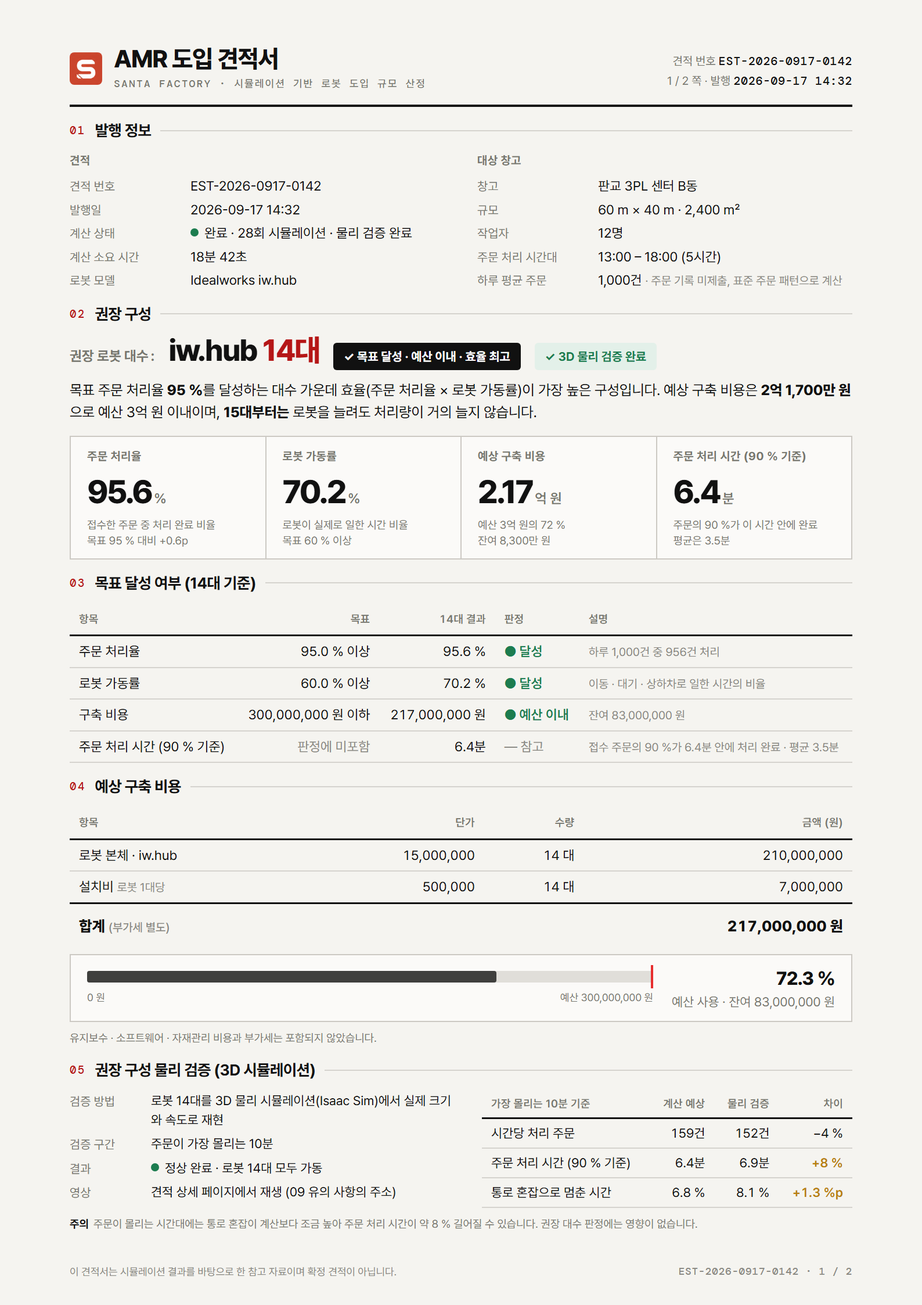
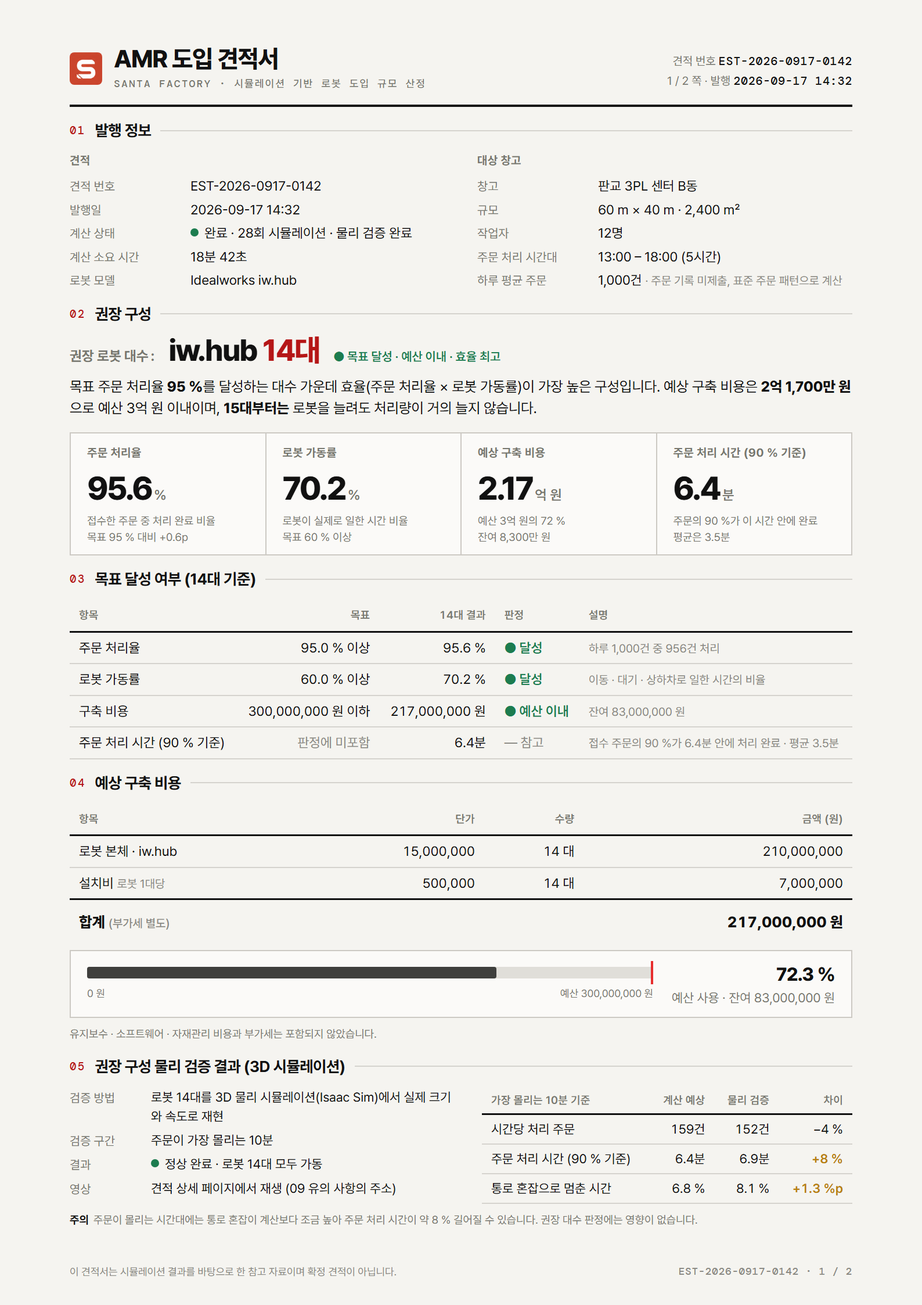
✨ feat(web): 견적 화면에 견적서 PDF 저장·메일로 받기 버튼 연결, 시안 1면 갱신과 PDF 개발 기록 문서 (S15P21A106-236)

diff --git a/4_Web/SantaFactoryFE/src/components/QuoteStep.jsx b/4_Web/SantaFactoryFE/src/components/QuoteStep.jsx
@@ -1,3 +1,5 @@
+import { useState } from 'react'
+import { downloadQuotePdf, emailQuote } from '../api/estimates.js'
 import { formatDateTime, formatEok, formatPercent, formatWon } from '../utils/format.js'
 
 const MONO = 'DM Mono, Pretendard Variable, Pretendard, monospace'
@@ -233,6 +235,53 @@ function Placeholder({ estimateId, estimate }) {
   )
 }
 
+/**
+ * 견적서 PDF 저장·메일 전송 (S15P21A106-236). 둘 다 백엔드가 만든 같은 문서다 — 저장은 파일로 받고,
+ * 메일은 로그인 계정 이메일로 간다. 계산이 끝나기 전엔 서버가 409 를 주므로 버튼을 막아 둔다.
+ */
+function QuoteActions({ estimateId, finished }) {
+  const [busy, setBusy] = useState(null) // null | 'pdf' | 'mail'
+  const [message, setMessage] = useState(null)
+
+  const run = async (kind, action, doneText) => {
+    setBusy(kind)
+    setMessage(null)
+    try {
+      await action()
+      setMessage({ ok: true, text: doneText })
+    } catch (e) {
+      setMessage({ ok: false, text: e.message ?? '요청에 실패했습니다.' })
+    } finally {
+      setBusy(null)
+    }
+  }
+
+  return (
+    <div className="printrow">
+      <button
+        type="button"
+        className="button"
+        disabled={!finished || busy !== null}
+        onClick={() => run('pdf', () => downloadQuotePdf(estimateId), '견적서를 저장했습니다.')}
+      >
+        {busy === 'pdf' ? '견적서 만드는 중…' : '견적서 PDF 저장 ↗'}
+      </button>
+      <button
+        type="button"
+        className="ghost"
+        disabled={!finished || busy !== null}
+        onClick={() => run('mail', () => emailQuote(estimateId), '가입한 이메일로 견적서를 보냈습니다. 잠시 후 메일함을 확인하세요.')}
+      >
+        {busy === 'mail' ? '보내는 중…' : '메일로 받기'}
+      </button>
+      <a className="ghost" href="#s1">조건 바꿔 다시 요청</a>
+      {message && (
+        <span className="mono" style={{ fontSize: 13, color: message.ok ? '#1c7c4f' : '#b51616' }}>{message.text}</span>
+      )}
+    </div>
+  )
+}
+
 export default function QuoteStep({ estimateId, estimate, verdict }) {
   const ready = Boolean(estimate && verdict)
   const runs = estimate?.runs ?? []
@@ -394,10 +443,7 @@ export default function QuoteStep({ estimateId, estimate, verdict }) {
             </div>
           </div>
 
-          <div className="printrow">
-            <button type="button" className="button">견적서 PDF 저장 ↗</button>
-            <a className="ghost" href="#s1">조건 바꿔 다시 요청</a>
-          </div>
+          <QuoteActions estimateId={estimateId} finished={verdict.status === 'DONE' || verdict.status === 'PARTIAL'} />
         </>
       )}
     </section>

diff --git a/4_Web/SantaFactoryFE/src/api/client.js b/4_Web/SantaFactoryFE/src/api/client.js
@@ -88,6 +88,45 @@ function refreshSession() {
 export const api = {
   get: (path) => request(path),
   post: (path, body) => request(path, { method: 'POST', body }),
+  download: (path) => download(path),
+}
+
+/**
+ * 파일 응답(PDF 등)을 받아 저장까지 한다. 실패 응답은 JSON 이라 위 request 와 같은 규칙으로 에러를 만든다.
+ * 401 은 한 번 갱신 뒤 재시도 — 견적서 버튼은 보통 화면을 오래 열어 둔 뒤 누르기 때문이다.
+ */
+async function download(path, allowRefresh = true) {
+  const response = await fetch(`${BASE_URL}${path}`, { credentials: 'same-origin' })
+
+  if (response.status === 401 && allowRefresh && (await refreshSession())) {
+    return download(path, false)
+  }
+  if (!response.ok) {
+    let payload = null
+    try {
+      payload = await response.json()
+    } catch {
+      payload = null
+    }
+    if (response.status === 401) onSessionLost()
+    throw new ApiError(payload?.code ?? `HTTP${response.status}`, payload?.message ?? response.statusText, response.status, payload?.result)
+  }
+
+  const blob = await response.blob()
+  const disposition = response.headers.get('Content-Disposition') ?? ''
+  const encoded = /filename\*=UTF-8''([^;]+)/i.exec(disposition)?.[1]
+  const plain = /filename="?([^";]+)"?/i.exec(disposition)?.[1]
+  const filename = encoded ? decodeURIComponent(encoded) : (plain ?? 'download')
+
+  const url = URL.createObjectURL(blob)
+  const anchor = document.createElement('a')
+  anchor.href = url
+  anchor.download = filename
+  document.body.appendChild(anchor)
+  anchor.click()
+  anchor.remove()
+  URL.revokeObjectURL(url)
+  return filename
 }
 
 export function streamUrl(path) {

diff --git a/4_Web/SantaFactoryFE/src/api/estimates.js b/4_Web/SantaFactoryFE/src/api/estimates.js
@@ -39,6 +39,16 @@ export function requestVerify(estimateId) {
   return api.post(`/estimates/${estimateId}/verify`)
 }
 
+/** 견적서 PDF 를 받아 저장한다. 계산이 끝난 견적만 가능(409), 변환기가 없으면 503. */
+export function downloadQuotePdf(estimateId) {
+  return api.download(`/estimates/${estimateId}/quote.pdf`)
+}
+
+/** 로그인 계정 이메일로 견적서 PDF 를 보낸다. 202 면 뒤에서 발송 중. */
+export function emailQuote(estimateId) {
+  return api.post(`/estimates/${estimateId}/quote/email`)
+}
+
 export function openEstimateStream(estimateId, { onSnapshot, onRun, onDone, onError }) {
   const source = new EventSource(streamUrl(`/estimates/${estimateId}`))
   const parse = (event) => JSON.parse(event.data)

diff --git a/5_Docs/Web/견적서_PDF_개발기록.md b/5_Docs/Web/견적서_PDF_개발기록.md
@@ -1,0 +1,120 @@
+# 견적서 PDF 개발 기록 (S15P21A106-236)
+
+2026-09-17. 브랜치 `feature/S15P21A106-236-견적서-pdf-산출`. 문서 구성·문구 원칙은 [견적서_구성안.md](견적서_구성안.md), 시안은 같은 폴더의 `견적서_예시_1면.png`·`2면.png`.
+
+## 1. 무엇을 만들었나
+
+견적 결과를 **A4 2장 PDF** 로 만들어 (1) 브라우저에서 내려받고 (2) 로그인 계정 이메일로 첨부 전송하는 기능.
+그 전 단계로, 견적서에 필요한데 DB 에 없던 값 두 가지를 먼저 저장하게 했다.
+
+| 단계 | 내용 | 커밋 |
+|---|---|---|
+| 1차 | run 별 시뮬 지표 7개 저장(`simscenarios`), 물리 검증 결과 저장(`estimates.verify_*`) + 권장 run 대비 비교 판정. 상세 응답에 `runs[].kpi`·`verification` 블록 | `8c5f10f` |
+| 2차 | PDF 변환 컨테이너, 문서 모델·템플릿, 다운로드·메일 API, 프런트 버튼 | (미커밋) |
+
+## 2. 방식 결정 — 왜 별도 변환 컨테이너인가
+
+| 후보 | 기각/채택 이유 |
+|---|---|
+| 브라우저 인쇄(`window.print`) | 메일 첨부 불가. 서버에 파일이 없다 |
+| 자바 HTML→PDF 라이브러리(openhtmltopdf) | CSS 2.1 수준이라 시안의 grid·flex 배치를 표로 다시 짜야 하고 SVG 는 플러그인. 모양 편차 |
+| 백엔드 JVM 안 헤드리스 크롬(Playwright) | EC2 t3.medium(4 GB)에서 백엔드 프로세스가 300 MB 씩 부풀고, 크롬이 죽으면 백엔드가 흔들림 |
+| **Gotenberg 컨테이너 (채택)** | 크로미움 내장 HTTP 변환기. 시안 HTML 그대로, 백엔드는 HTML 만 만들고 HTTP 한 번. 죽어도 견적서 기능만 멈춤. 검증 영상을 MinIO 로 분리한 것과 같은 결 |
+
+정책 결정(사용자, 2026-09-17): 메일 수신자 = 로그인 계정 이메일 고정 · 권한 = 견적 상세 조회와 동일(`OwnershipGuard.checkEstimate`, 남의 것은 404) · 파일명 `견적서_EST-yyyyMMdd-NNNN.pdf` · 비교 기준값 처리 시간 +10 % / 혼잡 +1 %p(임시).
+
+## 3. 구성 요소
+
+```
+브라우저 ─(GET quote.pdf / POST quote/email)─▶ backend(Spring)
+                                                  │ ① estimateService.quoteSource()  ── DB (estimates·simscenarios·warehouses)
+                                                  │ ② QuoteDocumentFactory.build()    ── 상세 응답+창고 → QuoteDocument
+                                                  │ ③ Thymeleaf templates/quote/quote.html → HTML 문자열
+                                                  │ ④ GotenbergClient.htmlToPdf()  ─(multipart POST)─▶ pdf 컨테이너(Gotenberg+크로미움+Pretendard)
+                                                  │ ⑤ 다운로드: PDF 바이트 응답 / 메일: EmailSender.sendWithAttachment (@Async)
+```
+
+| 파일 | 역할 |
+|---|---|
+| `4_Web/pdf/Dockerfile`, `4_Web/pdf/fonts/PretendardVariable.ttf` | `gotenberg/gotenberg:8` + 한글 폰트(가변 TTF 6.7 MB, SIL OFL). `fc-cache` 로 등록 |
+| `4_Web/docker-compose.yml` `pdf` 서비스 | `mem_limit: 512m`, `--api-timeout=60s --chromium-max-queue-size=2 --chromium-disable-javascript=true`, healthcheck. 외부 포트 없음. backend 가 `depends_on` |
+| `Jenkinsfile` | `$COMPOSE build backend pdf`, `4_Web/pdf/` 변경도 BE 빌드 트리거 |
+| `service/estimate/quote/QuotePdfProperties` | `pdf.base-url`(비면 503), `pdf.timeout`(30s), `pdf.site-url`(문서 안 링크) |
+| `service/estimate/quote/QuoteSource` | 상세 응답 + `WarehouseResponse`. `EstimateService.quoteSource()` 가 한 트랜잭션에서 만든다 |
+| `service/estimate/quote/QuoteDocument` | 템플릿 값 레코드. 숫자는 전부 표기용 문자열 |
+| `service/estimate/quote/QuoteDocumentFactory` | 상세 응답+창고 → 문서. 12행 선택, 비교표·주의 문장, 곡선 SVG 좌표, 사유 문구 |
+| `service/estimate/quote/QuoteFormat` | 원("2억 1,700만 원")·억("2.17")·분·초·%·문서 번호. 웹 `utils/format.js` 와 같은 규칙 |
+| `service/estimate/quote/GotenbergClient` | `RestClient` multipart(`files=index.html`, A4 8.27×11.69 in, 여백 0, 배경 인쇄). 동시 1건 세마포어, 실패·타임아웃은 `PDF503` |
+| `service/estimate/quote/QuotePdfService` | `checkRenderable`(변환기 유무·소유권·상태) → `render`(문서 → HTML → PDF) |
+| `service/estimate/quote/QuoteMailService` | `@Async sendToRequester`: 회원 이메일 조회 → render → 첨부 발송. 예외는 로그 |
+| `service/auth/EmailSender.sendWithAttachment` | `MimeMessageHelper` 첨부. `mail.enabled=false` 면 로그만 |
+| `resources/templates/quote/quote.html` | Thymeleaf. 스크립트 없음(서버가 전부 채움), 로고는 base64, 폰트는 컨테이너 시스템 폰트 |
+| `resources/quote/santafactory-logo.png` | 로고 원본(프런트 `public/` 복사) |
+| `controller/EstimateController` | `GET /api/estimates/{id}/quote.pdf`, `POST /api/estimates/{id}/quote/email` |
+| `global/exception/ErrorCode` | `ESTIMATE_NOT_FINISHED`(409 `EST409_2`), `QUOTE_PDF_UNAVAILABLE`(503 `PDF503`) |
+| FE `api/client.js` `api.download` | fetch → blob → `<a download>`. 401 이면 갱신 1회 뒤 재시도. `Content-Disposition` 의 UTF-8 파일명 해석 |
+| FE `api/estimates.js` | `downloadQuotePdf`, `emailQuote` |
+| FE `components/QuoteStep.jsx` `QuoteActions` | 버튼 2개. 견적 상태 DONE·PARTIAL 아니면 비활성, 진행 중 문구, 결과 메시지 |
+
+## 4. 동작 흐름
+
+### 다운로드
+1. 사용자가 견적 화면 "견적서 PDF 저장" 클릭 → `api.download('/estimates/{id}/quote.pdf')` (HttpOnly 쿠키 동봉).
+2. `EstimateController.quotePdf` → `QuotePdfService.render(id, me)`.
+3. `checkRenderable`: `pdf.base-url` 비면 503 → `estimateService.quoteSource(id, me)` (`@Transactional(readOnly)`: 견적 조회 → `OwnershipGuard.checkEstimate` → `toDetail`(상세 응답, 검증 비교 포함) + `WarehouseResponse.from(warehouse)`) → 상태가 DONE·PARTIAL 아니면 409.
+4. **트랜잭션 밖에서** `QuoteDocumentFactory.build(source)` → `templateEngine.process("quote/quote")` → `GotenbergClient.htmlToPdf(html)`.
+5. 응답 `application/pdf`, `Content-Disposition: attachment; filename*=UTF-8''견적서_EST-….pdf`. 브라우저가 저장.
+
+### 메일
+1. "메일로 받기" 클릭 → `POST /estimates/{id}/quote/email`.
+2. 컨트롤러가 **동기로** `checkRenderable` 만 하고(404/409/503 즉시) `QuoteMailService.sendToRequester(source, me)` 호출 → **202**.
+3. `@Async` 스레드: `memberRepository.findById(me.id())` 로 이메일 → `pdfService.render(source)` → `EmailSender.sendWithAttachment(email, 제목, 본문, 파일명, bytes, application/pdf)`.
+4. 실패는 로그. 화면은 "가입한 이메일로 견적서를 보냈습니다" 를 표시한다(발송 성패는 알 수 없음 — 한계 참고).
+
+### 문서 값이 나오는 곳
+| 블록 | 값의 출처 |
+|---|---|
+| 01 발행 정보 | `estimates`(생성 시각·상태·소요·모델) + `warehouses`(이름·크기·작업자·주문 시간대·하루 주문) |
+| 02 권장 구성 | `estimates.recommended_count`·`knee_count` + 권장 run 의 `throughput`·`utilization`·`total_cost`·`lead_time_p90`·`kpi.lead_time_mean_s` |
+| 03 목표 달성 여부 | 견적에 복사된 목표 3개 vs 권장 run. 리드타임 상한은 `estimate.lead-time-p90-limit`(미설정이면 "판정에 미포함") |
+| 04 예상 구축 비용 | `EstimateProperties.amrPrice`·`installPerUnit` × 대수, 합계는 run 의 `total_cost`(차이가 있으면 "기타 설비" 행) |
+| 05 물리 검증 결과 | 상세 응답 `verification`(`estimates.verify_*` + `VerifyComparator` 판정). 검증 전이면 안내 문장 |
+| 06 대수별 비교 | DONE run 전체에서 최대 12행(`pickRows`: 양끝·권장·정체·예산 경계 앞뒤 고정, 나머지 등간격) |
+| 07 그래프 | 효율 점수(처리율×가동률/100)·구축비 선, 예산 점선, 권장 표식, 정체 점선. 비용 축은 `niceCostMax` |
+| 08 운영 예상 | 권장 run 의 `kpi`(평균 처리 시간·배정 대기·혼잡·이동 거리) |
+| 09 유의 사항 | 고정 문구 + `pdf.site-url` |
+
+권장이 없는 견적(사유 코드만)은 02 에 사유 문장을 넣고 03~05·08 을 비운다. 부록 블록 번호는 `base`(권장 있으면 5, 없으면 2)로 계산해 이어진다.
+
+## 5. 설정·환경
+
+| 키 | 기본 | 비고 |
+|---|---|---|
+| `pdf.base-url` ← `PDF_BASE_URL` | 빈 값 | compose 는 `http://pdf:3000`. 비면 견적서 API 가 503 |
+| `pdf.timeout` | 30s | 변환기 응답 대기이자 세마포어 대기 상한 |
+| `pdf.site-url` ← `APP_PUBLIC_URL` | `http://localhost:5173` | compose 기본 `https://j15a106.p.ssafy.io` |
+| `estimate.verify-compare.*` | 0.10 / 0.01 | 05 비교 판정 기준. 조회 시 계산이라 과거 견적에도 즉시 적용 |
+| `mail.enabled` 등 | 기존 | 꺼져 있으면 첨부 메일도 로그만 |
+
+로컬에서 보기: `docker compose -f 4_Web/docker-compose.yml up -d pdf` 뒤 백엔드에 `PDF_BASE_URL=http://localhost:3000`. 렌더된 HTML 만 보려면 `./gradlew test --tests '*QuoteTemplateTest'` 가 `build/quote-preview.html` 을 남긴다.
+
+## 6. 검증한 것
+
+- 단위: `QuoteFormatTest`(표기 규칙), `QuoteDocumentFactoryTest`(요약·비교·12행·곡선·사유 없는 경우), `QuoteTemplateTest`(스프링 없이 렌더, 2쪽·블록 전부·번호 재계산), `EstimateControllerTest` 4건(첨부 헤더·409·202·503).
+- 실물: 로컬에서 변환 이미지를 빌드해 컨테이너로 샘플 견적 변환 — 2쪽, 620 KB, 0.7 s, Pretendard 렌더 확인(`fc-list`). 스크린샷이 시안과 일치.
+- 전체 `./gradlew test` 184건 통과(Testcontainers Postgres 포함).
+
+## 7. 운영 주의·한계
+
+- 변환 이미지가 **2.5 GB**(Gotenberg 기본). 첫 배포 빌드가 길다. 변환 중 크로미움 ~300 MB, `mem_limit 512m` 안.
+- 변환은 **한 번에 1건**(`GotenbergClient` 세마포어 + `--chromium-max-queue-size=2`). 동시에 누르면 뒤 사람은 최대 30 s 대기 후 503. 견적서 생성 빈도가 낮다는 전제.
+- 메일 API 는 202 뒤 발송 성패를 화면에 알리지 않는다. 실패는 백엔드 로그(`견적서 메일 실패`).
+- 견적서 링크는 견적 상세 페이지가 아니라 `{site-url}/estimates`(목록) — 프런트에 견적별 URL 이 없다.
+- 폰트 파일을 저장소에 넣었다. 웹 화면 폰트를 바꾸면 이 파일도 같이 바꿔야 견적서와 화면이 일치한다.
+- 검증 영상은 만료되는 서명 URL 이라 PDF 에 넣지 않는다.
+
+## 8. 남은 것
+
+- EC2 배포 뒤 실제 견적으로 다운로드·메일 1회 확인(`MAIL_ENABLED` 환경).
+- 비교 기준값(10 % / 1 %p)은 실제 검증 결과를 몇 번 본 뒤 `estimate.verify-compare` 로 조정.
+- 웹 화면에도 `runs[].kpi`·`verification` 을 그리려면 프런트 작업만 필요(응답에 이미 있음).

diff --git a/5_Docs/Web/견적서_구성안.md b/5_Docs/Web/견적서_구성안.md
@@ -5,6 +5,7 @@
 
 - 1면 요약: [견적서_예시_1면.png](견적서_예시_1면.png)
 - 2면 근거: [견적서_예시_2면.png](견적서_예시_2면.png)
+- 구현 방식·동작 흐름·파일 지도: [견적서_PDF_개발기록.md](견적서_PDF_개발기록.md)
 
 기획안 §2 의 원칙 "최종 산출물은 확정 견적이 아닌 의사결정 자료" 를 매 쪽 풋터와 09 유의 사항에 적는다.
 
@@ -63,11 +64,11 @@
 |---|---|---|---|
 | 01 | 발행 정보 | 견적 번호, 발행일, 계산 상태("완료 · N회 시뮬레이션 · 물리 검증 완료"), 계산 소요 시간(`elapsed_seconds`), 로봇 모델 | DB. 물리 검증 완료 여부는 지금은 영상 키 유무로, 상태를 제대로 두려면 할 일 5 |
 | | | 대상 창고: 창고명, 규모(폭 × 길이 · 면적), 작업자, 주문 처리 시간대, 하루 평균 주문, 주문 기록 제출 여부 | DB (`estimate.getWarehouse()`) |
-| 02 | 권장 구성 | 머리글 "권장 로봇 대수 : iw.hub 14대" + 배지 2개 — 검정 바탕 흰 글자 "✓ 목표 달성 · 예산 이내 · 효율 최고", 연초록 바탕 초록 글자 "✓ 3D 물리 검증 완료"(노랑은 '주의' 뜻으로 쓰고 있어 완료 표시에 쓰지 않는다), 설명 문장(선정 근거 · 구축비 · 효과 정체 대수), 지표 4셀: 주문 처리율 / 로봇 가동률 / 예상 구축 비용 / 주문 처리 시간, 셀 아래 한 줄 설명과 목표 대비. 권장 대수는 셀이 아니라 머리글에 둔다 | DB (`recommended_count`, `knee_count`, 권장 run 의 throughput/utilization/total_cost/lead_time_p90) |
+| 02 | 권장 구성 | 머리글 "권장 로봇 대수 : iw.hub 14대" + 초록 "● 목표 달성 · 예산 이내 · 효율 최고" (물리 검증 표시는 05 블록이 맡으므로 여기 두지 않는다), 설명 문장(선정 근거 · 구축비 · 효과 정체 대수), 지표 4셀: 주문 처리율 / 로봇 가동률 / 예상 구축 비용 / 주문 처리 시간, 셀 아래 한 줄 설명과 목표 대비. 권장 대수는 셀이 아니라 머리글에 둔다 | DB (`recommended_count`, `knee_count`, 권장 run 의 throughput/utilization/total_cost/lead_time_p90) |
 | | | 권장이 없을 때는 KPI 대신 사유 문장(`reason_code` → 웹 `REASON_TEXT` 와 같은 문장) | DB |
 | 03 | 목표 달성 여부 | 주문 처리율 / 로봇 가동률 / 구축 비용 3행(목표 · 결과 · 판정 · 설명) + 주문 처리 시간 참고 행 | DB. 설명 칸 "하루 1,000건 중 956건" 은 run 의 outbound(하루 환산 처리 건수)와 창고 하루 주문 |
 | 04 | 예상 구축 비용 | 로봇 본체 단가 × 대수, 설치비 × 대수, 합계(부가세 별도), 예산 대비 진행바 · 잔여액, 미포함 항목 각주 | 합계 `total_cost` DB. 단가·설치비는 설정(`amrPrice`·`installPerUnit`) |
-| 05 | 권장 구성 물리 검증 | 좌: 검증 방법(로봇 N대를 3D 물리 시뮬레이션에서 실제 크기·속도로 재현), 검증 구간(주문이 가장 몰리는 10분), 결과(정상 완료 · 로봇 N대 모두 가동), 영상 안내. 우: 비교표 3행 — 시간당 처리 주문 / 주문 처리 시간 / 통로 혼잡으로 멈춘 시간, 각각 계산 예상 · 물리 검증 · 차이. 아래 "주의" 한 줄 | 상세 응답 `verification` (할 일 5 완료). 구간 길이는 `window_s`. "주의" 문장은 `notice` 코드로 고른다 |
+| 05 | 권장 구성 물리 검증 결과 (3D 시뮬레이션) | 좌: 검증 방법(로봇 N대를 3D 물리 시뮬레이션에서 실제 크기·속도로 재현), 검증 구간(주문이 가장 몰리는 10분), 결과(정상 완료 · 로봇 N대 모두 가동), 영상 안내. 우: 비교표 3행 — 시간당 처리 주문 / 주문 처리 시간 / 통로 혼잡으로 멈춘 시간, 각각 계산 예상 · 물리 검증 · 차이. 아래 "주의" 한 줄 | 상세 응답 `verification` (할 일 5 완료). 구간 길이는 `window_s`. "주의" 문장은 `notice` 코드로 고른다 |
 
 ### 2면 — 근거
 
@@ -123,6 +124,36 @@
 **하지 않는 것.** 충전기 비용, 입고 필드, 계산 조건 노출, 리드타임 판정 기준 값 결정(설정 `estimate.lead-time-p90-limit` 만 채우면 켜짐), 워커 · 큐 변경.
 
 **순서.** 4 · 5 완료 → 1 · 6 → 2 → 3.
+
+## PDF 생성 진행 계획 — 방식 ③ 별도 변환 컨테이너 (2026-09-17 정리)
+
+**방식 비교 결론.** 메일 첨부가 요구사항이라 브라우저 인쇄만으로는 안 되고, 자바 HTML→PDF 라이브러리는 CSS 지원이 낮아 시안의 grid·flex 배치를 표로 다시 짜야 하며,
+백엔드 JVM 안에 헤드리스 크롬을 넣는 것은 EC2 t3.medium(4 GB)에 부담이다. **Gotenberg 컨테이너**(크로미움 내장, HTTP 로 HTML → PDF)를 compose 에 하나 추가하고 백엔드가 HTTP 로 호출한다.
+시안 HTML 을 그대로 쓰고, 백엔드는 가벼우며, 변환기가 죽어도 PDF 기능만 멈춘다.
+
+| 단계 | 할 일 | 바꿀 곳 | 공수 |
+|---|---|---|---|
+| 1 | compose 에 `pdf` 서비스(`gotenberg/gotenberg:8`). 외부 포트 없음, `mem_limit: 512m`, 동시 변환 1건. Jenkins 기동 확인에 포함 | `4_Web/docker-compose.yml`, `Jenkinsfile` | 0.5일 |
+| 2 | 시안 HTML → Thymeleaf 템플릿(`spring-boot-starter-thymeleaf` 추가). 표·곡선을 JS 가 아니라 서버에서 채워 변환기에서 스크립트를 끈다. Pretendard 폰트·로고를 HTML 과 함께 multipart 로 보내 CDN 의존 제거 | `src/main/resources/templates/quote/quote.html`, `static/quote/` 폰트·로고, `QuoteDocument` 모델 | 1일 |
+| 3 | `QuotePdfService`: 견적·runs·창고(`estimate.getWarehouse()`)·단가(`EstimateProperties`)·`verification` → 문서 모델(12행 선택, 초→분, `formatWon` 규칙, 견적 번호 `EST-yyyyMMdd-NNNN`) → 템플릿 → `GotenbergClient`(Spring `RestClient`, `POST /forms/chromium/convert/html`, A4 · 여백 0 · 배경 인쇄) → PDF 바이트. `GET /api/estimates/{id}/quote.pdf` 첨부 응답. 상태 DONE·PARTIAL 만, 소유자 확인은 `detail()` 과 동일, 30초 타임아웃, 세마포어 1, 변환기 장애 시 503 | `QuotePdfService`, `GotenbergClient`, `EstimateController` | 1일 |
+| 4 | `EmailSender.sendWithAttachment(...)`(`MimeMessageHelper`). `POST /api/estimates/{id}/quote/email` → 202 후 `@Async` 로 생성·발송, 받는 주소 = 로그인 계정 이메일. `mail.enabled=false` 면 로그만 | `EmailSender`, `EstimateController` | 0.5일 |
+| 5 | "견적서 PDF 저장" 버튼 → 다운로드 API(blob 저장), "메일로 받기" 버튼 추가, 완료 전 비활성 | `QuoteStep.jsx`, `api/estimates.js` | 0.5일 |
+| 6 | 로컬 compose 로 실제 견적 1건 PDF 생성 — 한글 폰트·2쪽·용량 확인. 문서 모델 단위 테스트(행 선택·표기 변환), 컨트롤러는 변환기 목 | 테스트 | 포함 |
+
+순서 1 → 2 → 3 → 4 → 5 (1·2 는 병행 가능). 합계 약 3.5일.
+
+**구현 완료 (2026-09-17, 브랜치 `feature/S15P21A106-236-…`).** 1~5 전부.
+- 변환기: `4_Web/pdf/Dockerfile`(Gotenberg 8 + Pretendard 가변 TTF 번들, 이미지 2.5 GB), compose `pdf` 서비스(`mem_limit 512m`, JS 비활성), 백엔드 `depends_on`. Jenkins 는 `build backend pdf`.
+- 백엔드: `service/estimate/quote/` — `QuoteDocument`(템플릿 값) · `QuoteDocumentFactory`(상세 응답+창고 → 문서, 12행 선택·표기 변환·곡선 좌표) · `QuoteFormat` · `GotenbergClient`(RestClient multipart, 동시 1건, 503) · `QuotePdfService` · `QuoteMailService`(@Async, 계정 이메일) · `QuotePdfProperties`(`pdf.base-url`·`timeout`·`site-url`). 템플릿 `templates/quote/quote.html`(Thymeleaf, 스크립트 없음, 로고 base64). `EmailSender.sendWithAttachment`. 에러 코드 `EST409_2`(계산 전) · `PDF503`(변환기 없음).
+- API: `GET /api/estimates/{id}/quote.pdf`(첨부 `견적서_EST-yyyyMMdd-NNNN.pdf`), `POST /api/estimates/{id}/quote/email`(202).
+- 프런트: `api.download`(blob 저장 + 401 갱신 1회), `downloadQuotePdf`·`emailQuote`, `QuoteStep` 의 `QuoteActions` 버튼 2개(완료 전 비활성).
+- 실측: 로컬 컨테이너에서 샘플 견적 변환 0.7 s, PDF 620 KB, 2쪽, 한글 폰트 정상. 테스트 `QuoteFormatTest`·`QuoteDocumentFactoryTest`·`QuoteTemplateTest`(렌더 결과를 `build/quote-preview.html` 에 남김)·컨트롤러 4건.
+- 로컬에서 보려면: `docker compose -f 4_Web/docker-compose.yml up -d pdf` 뒤 백엔드에 `PDF_BASE_URL=http://localhost:3000`.
+
+**위험·대응.** 변환 시 크로미움 ~300 MB → `mem_limit` + 동시 1건. 견적서 생성은 버튼을 눌렀을 때만이라 빈도가 낮다. 부족하면 변환 컨테이너만 다른 호스트로 빼고 백엔드는 주소(`pdf.base-url`)만 바꾼다.
+영상 링크는 만료되는 서명 주소 대신 견적 상세 페이지 주소(`app.public-url` 설정) 를 넣는다.
+
+**결정(2026-09-17).** ① 메일 수신자 = 로그인 계정 이메일 고정, 입력 없음. ③ 파일명 = `견적서_EST-20260917-0142.pdf`. ② 다운로드·메일 권한은 상세 조회와 같은 `OwnershipGuard.checkEstimate` 규칙(견적이 속한 창고의 소유자, ADMIN 은 전부. 남의 것은 403 이 아니라 404) — 확정 대기.
 
 ## 프런트 할 일
 
